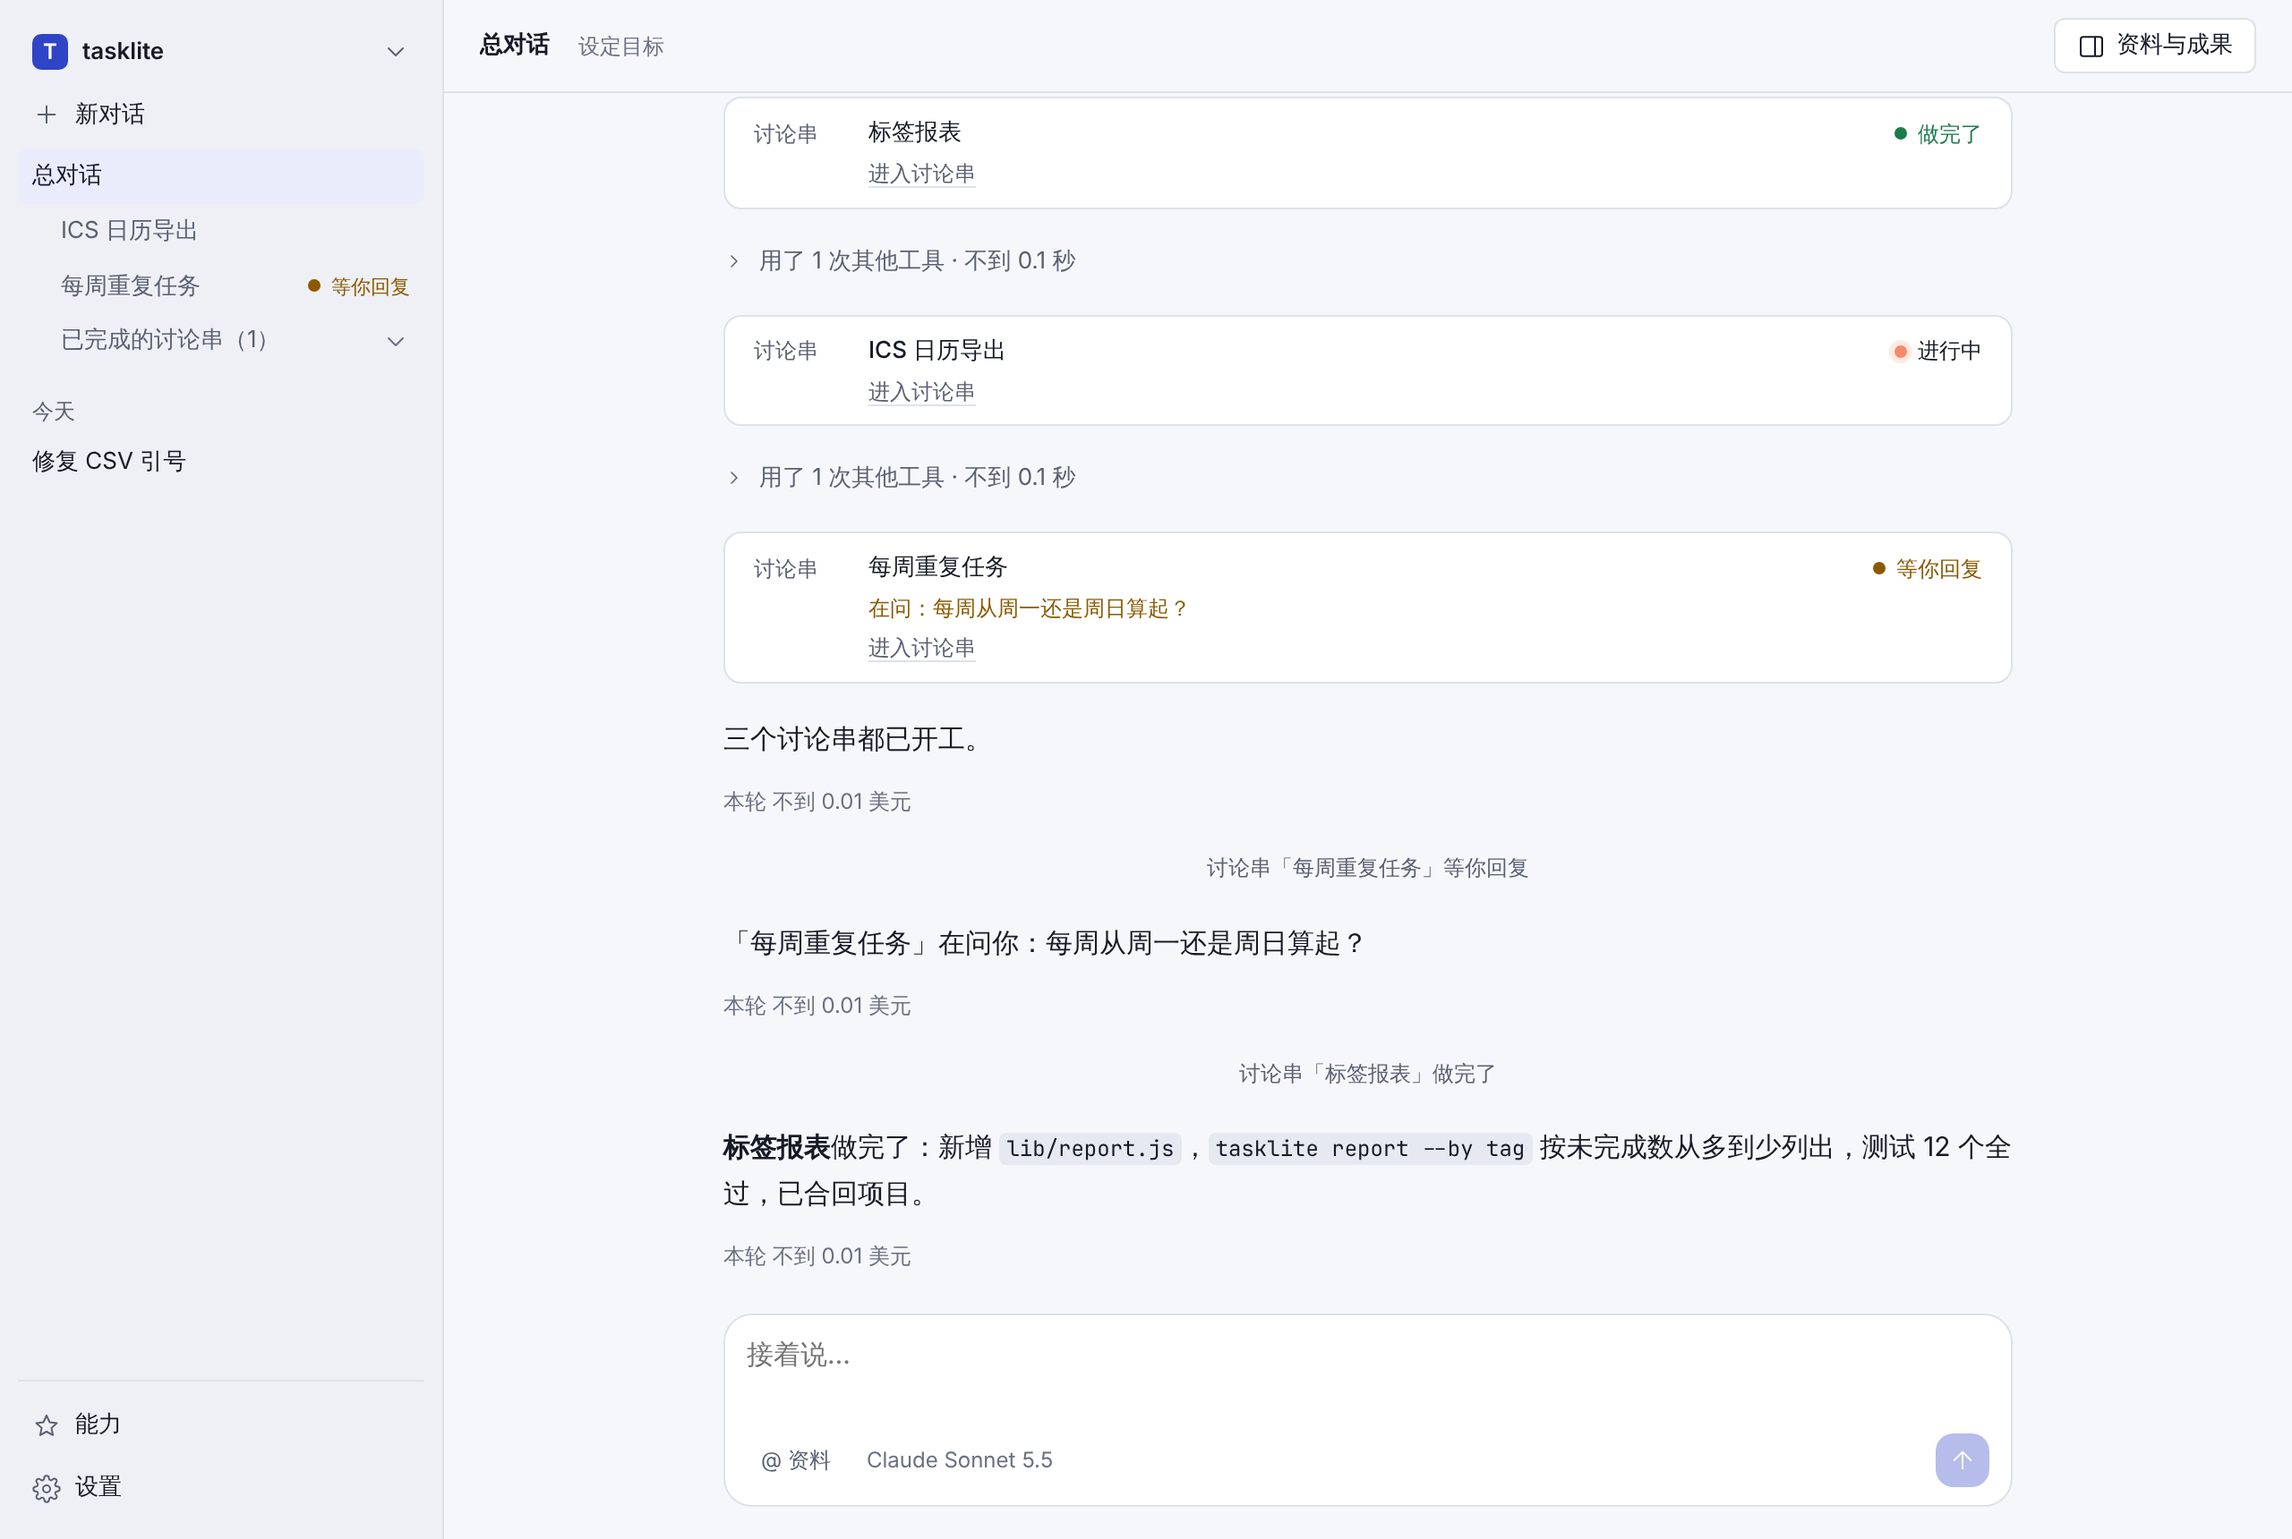
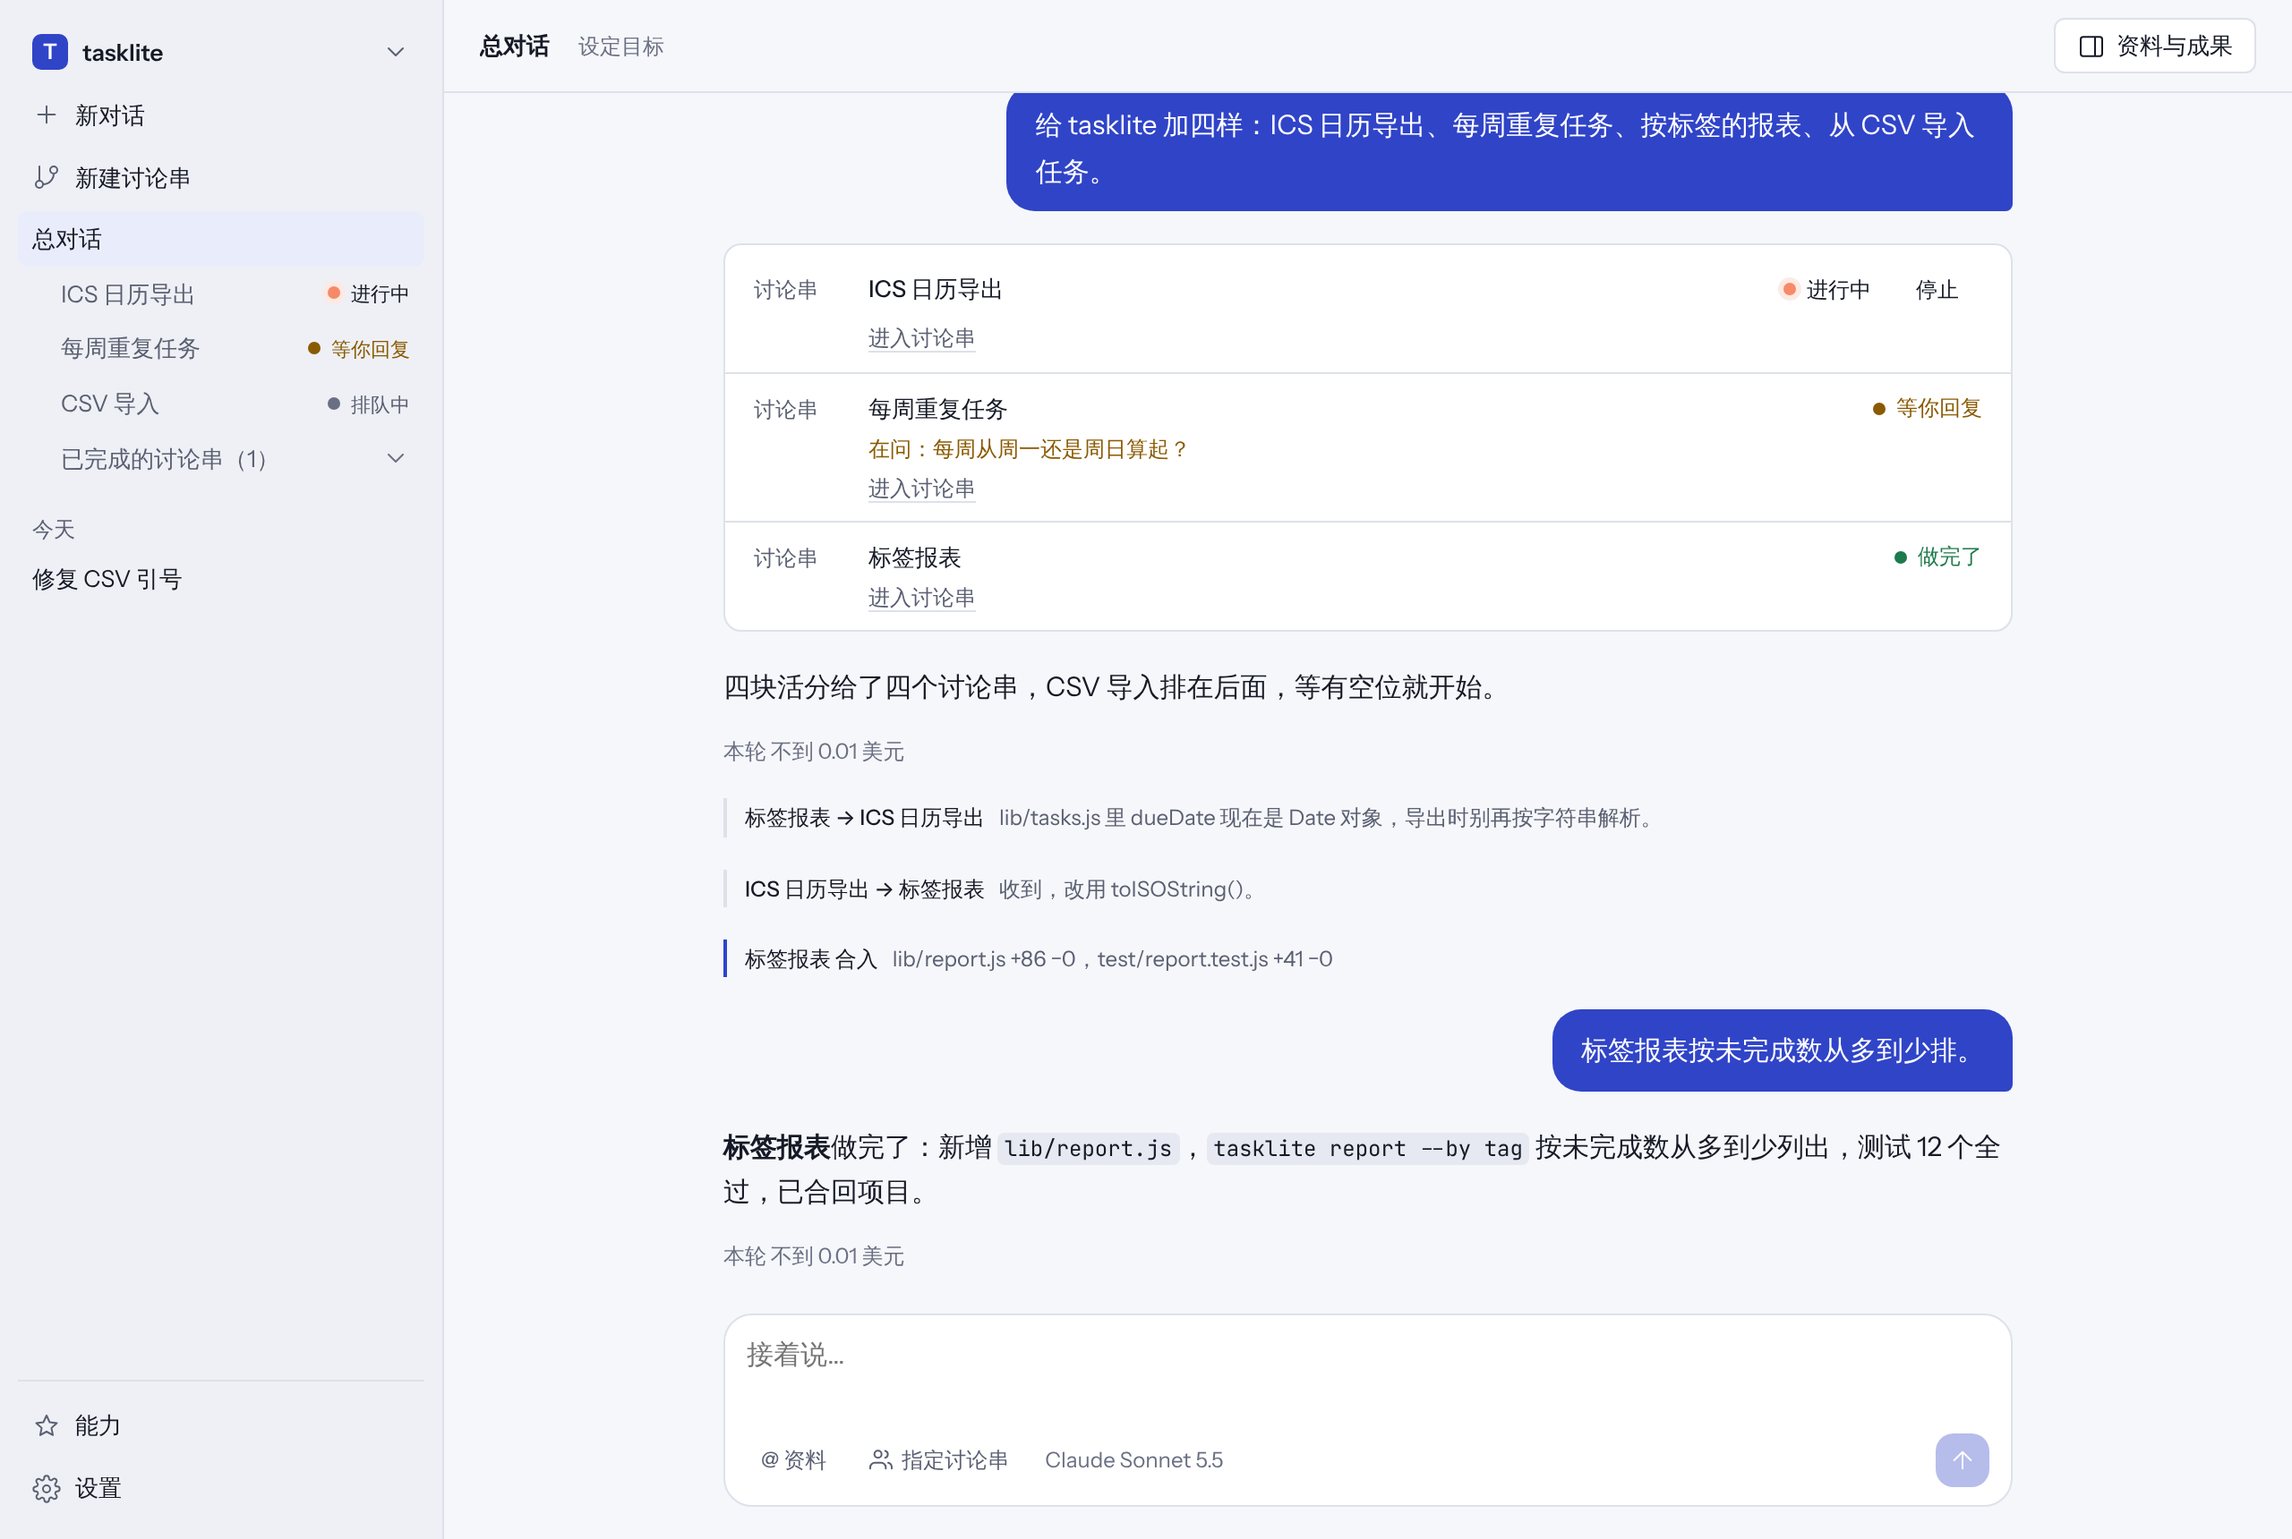
讨论串窗口的停止走协调者并连同成员一起停；重拍 README 截图
- 讨论串窗口输入框的停止按钮改为停这个讨论串（写入协作记录，连同它派的成员一起停）
- 测试：停讨论串时它的成员以 parent 原因结束
- README 截图重拍：总对话、讨论串、指定讨论串三张

diff --git a/packages/sdk/tests/collaboration.spec.ts b/packages/sdk/tests/collaboration.spec.ts
@@ -9,7 +9,7 @@
 import { readFile } from 'node:fs/promises'
 import * as nodePath from 'node:path'
 import { COLLAB_DELIVERY_LEAD, type CollabEntry, type Context, type LLMRequest } from '@nexgent/kernel'
-import { llmSessionText, scriptedProvider, type ScriptedProvider, type ScriptEntry } from '@nexgent/test-support'
+import { llmSessionText, routeByMember, scriptedProvider, type ScriptedProvider, type ScriptEntry } from '@nexgent/test-support'
 import { describe, expect, it } from 'vitest'
 import { SdkThreadHost, checkPlan, collabDelivery, ownsOverlap, taskCollaboration } from '../src/index.js'
 import { testSdk, waitForEvent, type TestSdk } from './helpers.js'
@@ -281,5 +281,40 @@ describe('collaboration through the SDK', () => {
     expect(tools).toContain('read_collab')
     expect(tools).toContain('read_merged')
     expect(tools).toContain('ask_coordinator')
+  })
+  it('stops a thread together with the members it started', async () => {
+    let provider: ScriptedProvider | undefined
+    const member = routeByMember(llmSessionText)
+    const t = await testSdk([], {
+      registry: {
+        '@nexgent/llm': {
+          name: 'scripted-llm',
+          apply(ctx: Context) {
+            provider = scriptedProvider([
+              { toolCalls: [{ name: 'start_thread', arguments: { title: 'Mine', task: 'Do it with a helper.' } }] },
+              { content: 'Started.' },
+              { content: 'Stopped.' },
+            ], {
+              routeKey: request => member(request) ?? THREAD_LINE.exec(llmSessionText(request))?.[1],
+              routes: {
+                Mine: [{ toolCalls: [{ name: 'delegate', arguments: { name: 'slow', task: 'Take your time' } }] }],
+                slow: [{ content: Array.from({ length: 200 }, (_, i) => `part ${i} `), chunkDelayMs: 25 }],
+              },
+            })
+            ctx.provide('llm', provider)
+          },
+        },
+      },
+    })
+    const project = await t.sdk.call('projects.open', { root: nodePath.join(t.base, 'p'), create: true })
+    const coordinator = await t.sdk.call('sessions.coordinator', { projectId: project.projectId })
+    await t.sdk.startTurn({ projectId: project.projectId, sessionId: coordinator.sessionId, text: 'Go.' })
+    const delta = await waitForEvent(t, event => event.type === 'text.delta' && event.parentSessionId !== undefined && event.parentSessionId !== coordinator.sessionId)
+    const threadId = delta.parentSessionId!
+    const stopped = await t.sdk.call('threads.stop', { projectId: project.projectId, sessionId: coordinator.sessionId, threadId })
+    expect(stopped.status).not.toBe('running')
+    const end = await waitForEvent(t, event => event.type === 'turn.end' && event.sessionId === delta.sessionId)
+    expect(end).toMatchObject({ reason: { kind: 'cancelled', cause: 'parent' } })
+    expect(t.sdk.isRunning(project.projectId, delta.sessionId!)).toBe(false)
   })
 })

diff --git a/apps/desktop/src/renderer/__tests__/thread-collab.spec.tsx b/apps/desktop/src/renderer/__tests__/thread-collab.spec.tsx
@@ -47,6 +47,20 @@ describe('thread status', () => {
   })
 })
 
+describe('stopping in a thread window', () => {
+  it('stops a running thread from its composer through its coordinator', async () => {
+    const bridge = new FakeBridge()
+    bridge.sessions = [SESSION, THREAD]
+    bridge.threads = [info()]
+    const { store } = await renderApp(bridge)
+    await store.openSession('t1')
+    emit(bridge, { type: 'turn.start', sessionId: 't1', turn: 2, source: 'thread' })
+    fireEvent.click(await screen.findByTestId('stop'))
+    await waitFor(() => expect(bridge.callsOf('threads.stop')).toContainEqual(expect.objectContaining({ sessionId: 's1', threadId: 't1' })))
+    expect(bridge.callsOf('turns.cancel')).toHaveLength(0)
+  })
+})
+
 describe('naming threads', () => {
   it('sends the named threads with the message', async () => {
     const { bridge } = await renderApp()

diff --git a/apps/desktop/src/renderer/components/Conversation.tsx b/apps/desktop/src/renderer/components/Conversation.tsx
@@ -200,9 +200,10 @@ function ThreadOf({ coordinatorSessionId, threadId }: { readonly coordinatorSess
         {T.threadOf(name)}
       </button>
       {info?.isolated === false && <span className="faint small" title={T.threadSharedHelp} data-testid="thread-shared">{T.threadShared}</span>}
-      {(info?.status === 'queued' || info?.status === 'running') && (
+      {/* A running thread stops from the composer; a queued one has no turn yet, so it stops here. */}
+      {info?.status === 'queued' && (
         <button type="button" className="ghost small thread-stop" title={T.threadStopHelp} onClick={() => void store.stopThread(threadId)} data-testid="thread-stop-top">
-          {info.status === 'queued' ? `${T.threadQueued} · ${T.threadStop}` : T.threadStop}
+          {`${T.threadQueued} · ${T.threadStop}`}
         </button>
       )}
     </>

diff --git a/apps/desktop/src/renderer/store.ts b/apps/desktop/src/renderer/store.ts
@@ -620,7 +620,9 @@ export class AppStore {
     const sessionId = this.state.sessionId
     if (projectId === undefined || sessionId === undefined || !this.state.running) return
     this.set({ stopping: true })
-    await this.guard(c => c.call('turns.cancel', { projectId, sessionId }))
+    // A thread stops through its coordinator, so the stop is logged and its members stop with it.
+    if (this.state.threads.some(t => t.threadId === sessionId)) await this.stopThread(sessionId)
+    else await this.guard(c => c.call('turns.cancel', { projectId, sessionId }))
     if (this.state.sessionId === sessionId) this.set({ stopping: false })
   }
 

diff --git a/README.md b/README.md
@@ -108,19 +108,22 @@ Desktop app (Electron + React)        CLI
 - **Threads** — background conversations with a card each (running / done / waiting for you / waiting for approval); open one to watch it or talk to it; finished ones fold away
 - **Teams inside a thread** — only when its part is large; roles, parallel members, reorganize when stuck
 - **You name the threads** — list them with your message (the button beside the composer) or with `--thread` on the command line, or start one from the sidebar or with `nexgent thread start`; the coordinator follows up on yours
-- **Running limit and stop** — threads beyond the number allowed to run at once (3 by default, `threads.maxRunning` in the project's `config.json`) wait in a queue; a running or queued thread can be stopped from its card or with `nexgent thread stop`
+- **Running limit and stop** — threads beyond the number allowed to run at once (3 by default, `threads.maxRunning` in the project's `config.json`) wait in a queue; a running or queued thread can be stopped from its card or its own window
 - **Threads that work together** — a collaboration log in the project: which files each thread merged (with lines added and removed), messages between threads and (optionally) claims and handoffs, delivered before each step and shown as one line in both threads' windows and the coordinator's; a thread can read a file as the project has it now; questions to the coordinator mid-turn
 - **Improves how threads work together** — tries one change at a time against recorded collaboration problems, enforced by the host; one line under your message says what is being tried and how it ended
 - **Remembers good organizations** — per task class, compared against control runs
 - **Project rules and practices** — rules on every task, asks when a rule conflicts with existing tests or code; practices kept or retired by randomized give/withhold
 - **Checks itself** — tests, your check commands, deliverables that must open; fixes within the same turn
-- **Stop, rewind, resume** — and approvals, sandboxing and cost caps
+- **Stop, rewind, resume** — every conversation, each thread included, has a stop button; stopping a thread stops the members it started; plus approvals, sandboxing and cost caps
 
-<p align="center"><img src="assets/screenshots/coordinator.png" width="760" alt="The coordinator conversation with three threads"></p>
-<p align="center"><sub>The coordinator split one request into three threads: one done, one running, one waiting for an answer.</sub></p>
+<p align="center"><img src="assets/screenshots/coordinator.png" width="760" alt="The coordinator conversation with its threads"></p>
+<p align="center"><sub>The coordinator split one request into four threads: one done, one running, one waiting for an answer, one queued. What the threads said to each other and what they merged shows as one line each.</sub></p>
 
 <p align="center"><img src="assets/screenshots/thread.png" width="760" alt="Inside a thread: two members"></p>
-<p align="center"><sub>Inside a thread: its part was large enough for two members, a builder and then a tester. The interface is in Chinese; the data in both pictures is an example.</sub></p>
+<p align="center"><sub>Inside a thread: two members, a builder and then a tester; the messages it exchanged with another thread; the stop button stops it and its members.</sub></p>
+
+<p align="center"><img src="assets/screenshots/plan.png" width="760" alt="Naming the threads for a message"></p>
+<p align="center"><sub>Naming the threads you want: one title and one sentence per row; with “only these”, the coordinator starts exactly these. The interface is in Chinese; the data in the pictures is an example.</sub></p>
 
 ---
 

diff --git a/docs/PROJECT_POSITIONING.md b/docs/PROJECT_POSITIONING.md
@@ -33,7 +33,7 @@
 2. 协调者把活拆成几块，每块交给一个讨论串，写清目标、输入、完成标准、不许碰的东西和它改哪些路径（`owns`）。你点名了讨论串时，协调者只能开这几个、标题照你的，不能增减；这份点名存在项目里，重启后照样约束。你在总对话里说的话（包括中途插话）由宿主原样转给相关的讨论串，不靠协调者转述，压缩时也逐字保留。小任务整件交给一个讨论串。几个讨论串可以同时跑，超过上限的排队，有一个结束就补上。
 3. 讨论串在自己的项目副本里做。小的一块（几个文件、一处连在一起的改动，自己跑测试就能查）自己做、自己查；大的用 `organize` 派成员。
 4. 讨论串做完一轮，改动合回项目，并叫醒协调者。协调者先给你几行汇总，再决定下一步：回答它、派下一块、停掉某个讨论串（`stop_thread`），或收尾。两个以上讨论串合入了文件、都结束之后，宿主自己开一轮检查整个项目（跑项目自己的测试和构建，修掉合并弄坏的）。
-5. 你随时可以插话。你的原话转给相关的讨论串；你也可以直接进讨论串里说（不占同时运行的名额），在侧栏“新建讨论串”自己开一个，或停掉一个。你开的讨论串做完一轮也会叫醒协调者，由它跟进。程序退出时被打断的、协调者派的讨论串，下次打开项目时接着做。
+5. 你随时可以插话。你的原话转给相关的讨论串；你也可以直接进讨论串里说（不占同时运行的名额），在侧栏“新建讨论串”自己开一个。每个对话（包括每个讨论串）都有停止按钮；停一个讨论串会连同它派的成员一起停，停止写进协作记录，协调者看得到。你开的讨论串做完一轮也会叫醒协调者，由它跟进。程序退出时被打断的、协调者派的讨论串，下次打开项目时接着做。
 6. 任务的讨论串都结束后，宿主数这次的协作问题，记进组织库，并判断正在试的协作变量（第 7 节）。
 
 不想要协调者时，可以开普通对话：普通对话自己读写文件、跑命令，也能组队。命令行用的就是普通对话。
@@ -95,7 +95,6 @@
 - 插话、组队、讨论串、你点名的讨论串、原话转达、排队、协作变量的执行和互相配合模式都有脚本化模型的测试。真实模型只在 macOS 和云端小规模试过：协调者会拆成讨论串、纠正能转到讨论串、跨轮提示缓存能命中；协作试验和互相配合模式还没有在真实任务里跑过。
 - 切换“讨论串协作”时，空闲的对话会关掉、下次用时按新方式重开；正在跑的对话要等这一轮结束、重开后才用新方式。
 - 讨论串在后台要批准时，批准本身要进那个讨论串做；只有协调者派的讨论串在重启后接着做，你自己开的不会。
-- 命令行的 `thread stop` 只能停同一个进程里的讨论串。
 - 分工比较和协作试验都要攒次数，前期多半没有结论；按文字归类时，说法相近、内容不同的任务会被合在一起。
 - 组队和讨论串一般比单独做贵。
 - macOS 沙箱没有实测，Windows 沙箱没有在 Windows 上实测，Windows 与 macOS 安装包没有验证。
